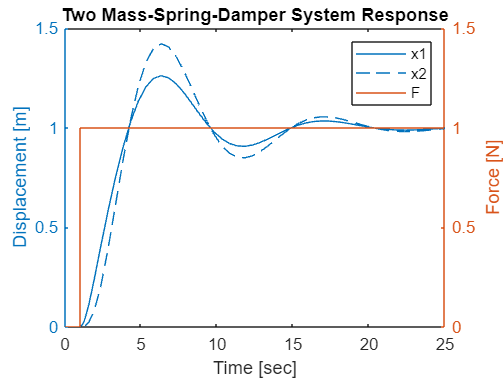
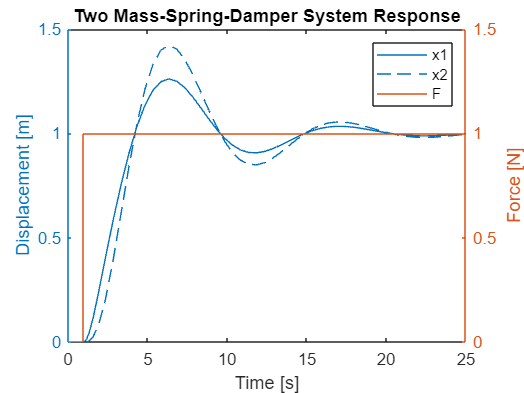
change file name from project.md to README.md

Changed region(s): [[0.0298, 0.0, 0.9543, 1.0], [0.9543, 0.3492, 1.0, 0.582], [0.2982, 0.1164, 0.3579, 0.1746]]

diff --git a/Project_1/README.md b/Project_1/README.md
@@ -39,7 +39,7 @@ plot(ans.F)
 ylim([0 1.5])
 legend('x1', 'x2', 'F')
 ylabel('Force [N]')
-xlabel('Time [sec]')
+xlabel('Time [s]')
 title('Two Mass-Spring-Damper System Response')
 ```
 
